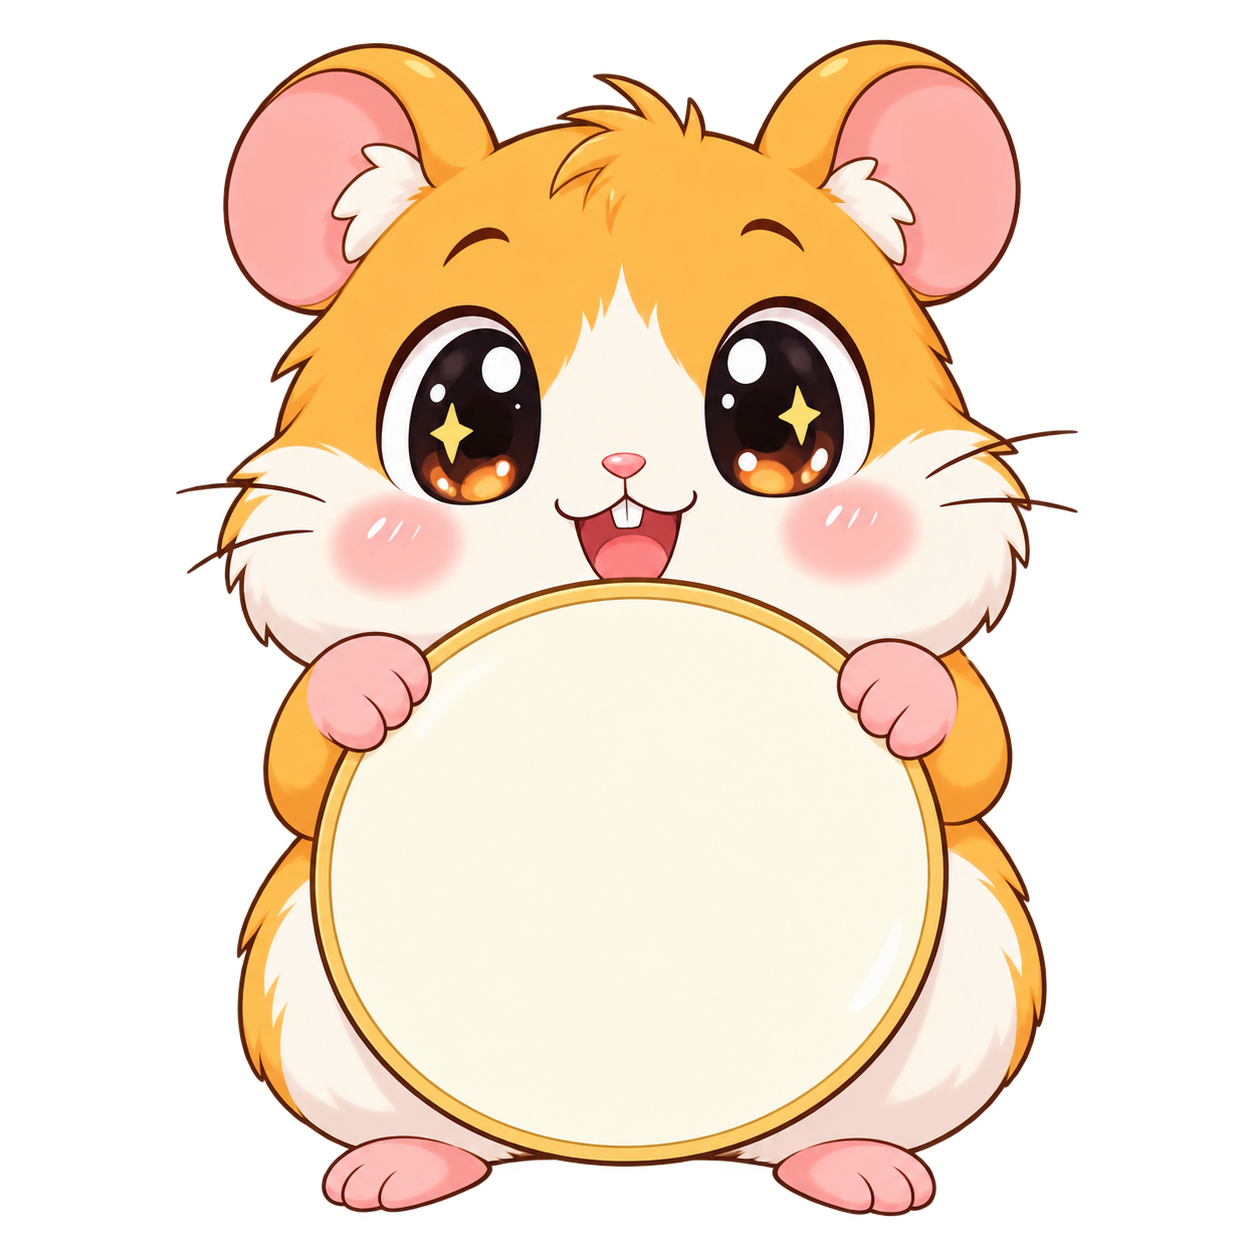
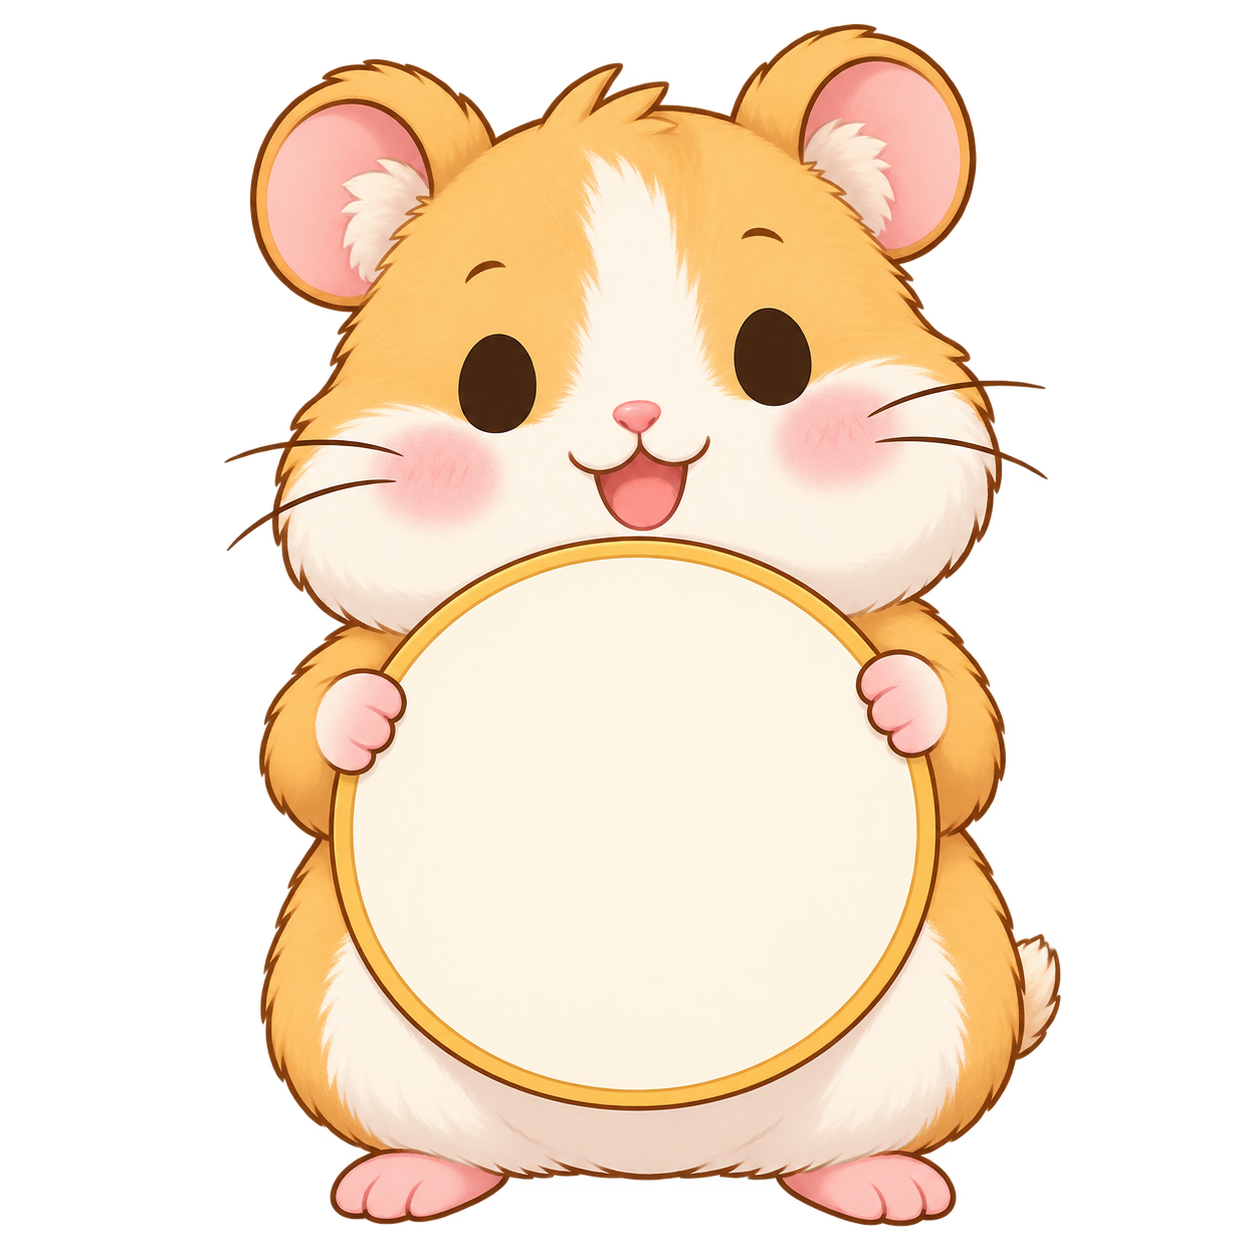
style: simplify lucky number card and hamster eyes

diff --git a/index.html b/index.html
@@ -91,7 +91,6 @@
         padding: 56px 0 70px;
       }
 
-      .eyebrow { margin: 0 0 18px; color: var(--coral); font-size: 12px; font-weight: 700; letter-spacing: 0.17em; }
       h1 { max-width: 500px; margin: 0; font-family: 'Jua', sans-serif; font-size: clamp(42px, 6vw, 76px); font-weight: 400; line-height: 1.13; letter-spacing: -0.025em; }
       .intro { max-width: 360px; margin: 24px 0 0; color: var(--muted); font-size: 16px; line-height: 1.8; }
 
@@ -109,9 +108,8 @@
       .hamster-dark { display: none; }
       :root[data-theme='dark'] .hamster-light { display: none; }
       :root[data-theme='dark'] .hamster-dark { display: block; }
-      .number { position: absolute; z-index: 1; top: 65%; color: var(--coral); font-size: clamp(96px, 15vw, 156px); font-weight: 700; line-height: 1; letter-spacing: -0.08em; text-shadow: 0 2px 0 rgba(255, 255, 255, 0.3); transform: translateY(-50%); }
+      .number { position: absolute; z-index: 1; top: 65%; color: var(--coral); font-size: clamp(72px, 10vw, 112px); font-weight: 700; line-height: 1; letter-spacing: -0.08em; text-shadow: 0 2px 0 rgba(255, 255, 255, 0.3); transform: translateY(-50%); }
       :root[data-theme='dark'] .number { color: var(--gold); text-shadow: 0 2px 0 rgba(0, 0, 0, 0.45), 0 0 16px rgba(243, 200, 92, 0.3); }
-      .number-label { position: absolute; z-index: 2; top: 81%; color: var(--muted); font-size: 10px; font-weight: 700; letter-spacing: 0.12em; transform: translateY(-50%); }
       .hamster-message { position: absolute; z-index: 3; top: -24px; left: 50%; width: min(82%, 280px); margin: 0; padding: 10px 14px; border: 1px solid #d7d7d7; border-radius: 16px; color: #171717; background: #fff; box-shadow: 0 8px 18px rgba(0, 0, 0, 0.16); font-size: 13px; font-weight: 700; line-height: 1.45; text-align: center; white-space: pre-line; transform: translateX(-50%); }
       .hamster-message::after { content: ''; position: absolute; bottom: -7px; left: 50%; width: 12px; height: 12px; border-right: 1px solid #d7d7d7; border-bottom: 1px solid #d7d7d7; background: #fff; transform: translateX(-50%) rotate(45deg); }
 
@@ -149,7 +147,6 @@
 
       <section class="hero" aria-labelledby="page-title">
         <div>
-          <p class="eyebrow">A LITTLE SIGN FOR TODAY</p>
           <h1 id="page-title">오늘,<br />당신의 숫자</h1>
           <p class="intro">햄스터가 오늘의 행운 숫자를 들고 왔어요. 작은 행운은 생각보다 가까이 있습니다.</p>
           <div class="actions">
@@ -163,7 +160,6 @@
             <img class="hamster hamster-light" src="assets/hamster-light.png" alt="행운 숫자 팻말을 든 귀여운 햄스터" />
             <img class="hamster hamster-dark" src="assets/hamster-dark.png" alt="행운 숫자 팻말을 든 무서운 햄스터" />
             <span class="number" id="lucky-number">7</span>
-            <span class="number-label">YOUR LUCKY NUMBER</span>
           </div>
           <p class="hamster-message" id="hamster-message" role="status" hidden></p>
         </div>
